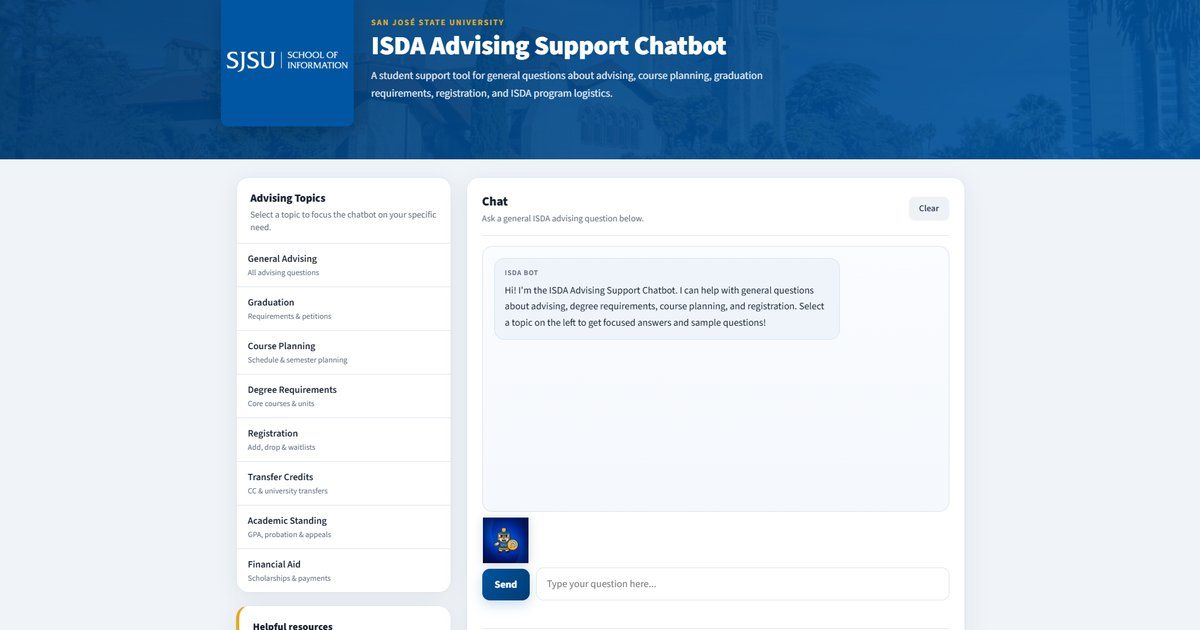
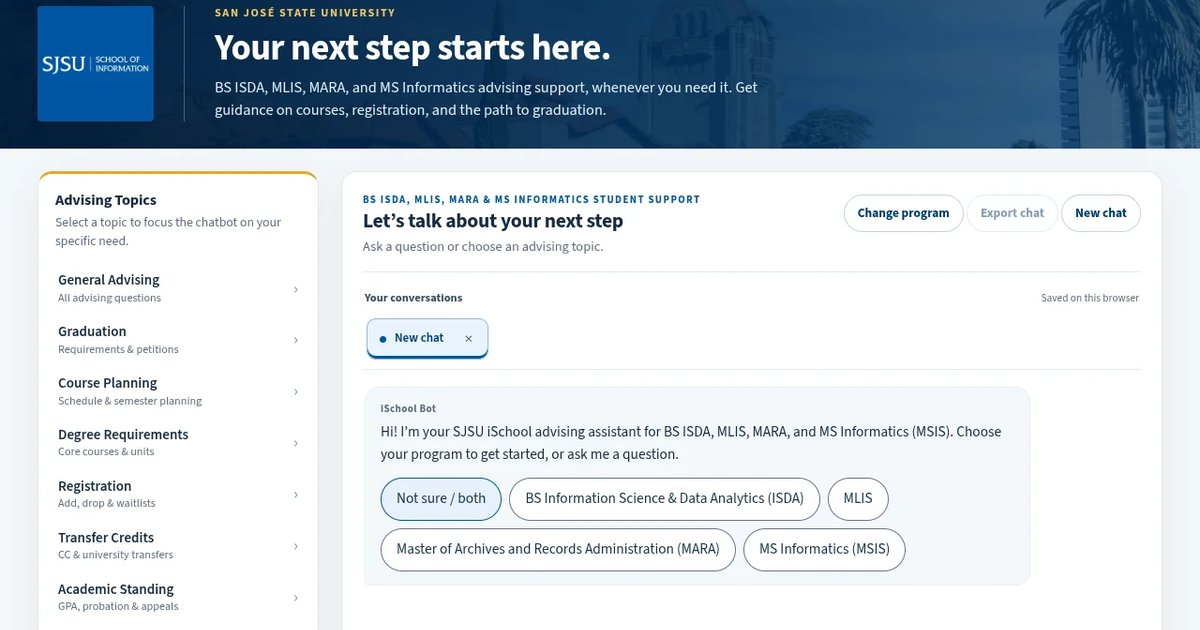
Add real project screenshots and refresh CyVerse page (#13)
* Add project screenshots and refresh CyVerse project page

* Add CyVerse Level 1 and Level 2 SOC gameplay screenshots

* Add CyVerse Level 3 and Level 4 Unity gameplay screenshots

Replace the Level 2 Alert Board with a sharper Unity editor capture, keep the existing Hub cover, and trim weaker Level 1/2 gallery slides so the set stays at 16 images in story order.

diff --git a/src/data/projects.ts b/src/data/projects.ts
@@ -49,9 +49,16 @@ export const projects: Project[] = [
       "The static GitHub Pages preview can preview local GLB files and share links to public HTTPS GLB URLs; persistent uploads require the upload API and object storage."
     ],
     tags: ["AR", "3D", "WebXR"],
-    mediaAlt: "",
-    mediaPath: "",
-    githubUrl: "https://github.com/CrashPr0/spatial-drop"
+    mediaAlt: "Spatial Drop Studio showing the SJSU Spartan Loop 3D model in the live browser preview",
+    mediaPath: "/images/projects/spatial-drop-studio.webp",
+    mediaSlides: [
+      { path: "/images/projects/spatial-drop-studio.webp", alt: "Spatial Drop Studio showing the SJSU Spartan Loop 3D model in the live browser preview" },
+      { path: "/images/projects/spatial-drop-share.webp", alt: "Spatial Drop share panel with generated AR link and scannable QR code" },
+      { path: "/images/projects/spatial-drop-beam.webp", alt: "Spatial Drop QR Beam mode for serverless Fountain QR and Cimbar optical model transfer" }
+    ],
+    githubUrl: "https://github.com/CrashPr0/spatial-drop",
+    siteUrl: "https://crashpr0.github.io/spatial-drop/",
+    siteLabel: "Open Studio preview"
   },
   {
     slug: "echoes-of-expression",
@@ -68,9 +75,17 @@ export const projects: Project[] = [
       "A desktop preview offers mouse-look and WASD navigation without a camera or GPS. Exhibition content and placement settings live in artworks.js."
     ],
     tags: ["AR", "Exhibition", "Location-based"],
-    mediaAlt: "",
-    mediaPath: "",
-    githubUrl: "https://github.com/CrashPr0/EchoesOfExpression"
+    mediaAlt: "Echoes of Expression AR exhibition start screen for SJSU campus, MLK Library, and San José City Hall",
+    mediaPath: "/images/projects/echoes-landing.webp",
+    mediaSlides: [
+      { path: "/images/projects/echoes-landing.webp", alt: "Echoes of Expression AR exhibition start screen for SJSU campus, MLK Library, and San José City Hall" },
+      { path: "/images/projects/echoes-works.webp", alt: "All works exhibition directory showing AR artworks and distances across the walking route" },
+      { path: "/images/projects/echoes-3d-preview.webp", alt: "Commotion, Part 1 3D television sculpture loaded in Echoes of Expression desktop preview mode" },
+      { path: "/images/projects/echoes-statement.webp", alt: "Artwork detail panel showing location metadata and preview for Commotion, Part 1" }
+    ],
+    githubUrl: "https://github.com/CrashPr0/EchoesOfExpression",
+    siteUrl: "https://crashpr0.github.io/EchoesOfExpression/?preview",
+    siteLabel: "Open Desktop Preview"
   },
   {
     slug: "ischool-hologram-workshop",
@@ -87,9 +102,15 @@ export const projects: Project[] = [
       "Canvas handles image and video processing, while CSS 3D transforms simulate the viewer. The display uses the reflection-based Pepper's Ghost effect."
     ],
     tags: ["Hologram", "Workshop", "Image Processing"],
-    mediaAlt: "",
-    mediaPath: "",
-    githubUrl: "https://github.com/CrashPr0/ischool-hologram-workshop"
+    mediaAlt: "Spectre Hologram Workshop prism viewer displaying a four-face SJSU Spartan layout",
+    mediaPath: "/images/projects/hologram-viewer.webp",
+    mediaSlides: [
+      { path: "/images/projects/hologram-viewer.webp", alt: "Spectre Hologram Workshop prism viewer displaying a four-face SJSU Spartan layout" },
+      { path: "/images/projects/hologram-home.webp", alt: "Spectre Hologram Workshop interface showing Pepper's Ghost instructions and upload controls" }
+    ],
+    githubUrl: "https://github.com/CrashPr0/ischool-hologram-workshop",
+    siteUrl: "https://crashpr0.github.io/ischool-hologram-workshop/",
+    siteLabel: "Open Workshop Tool"
   },
   {
     slug: "ischool-advising-chatbot",
@@ -146,10 +167,10 @@ export const projects: Project[] = [
       "Source citations and the ISDA / MLIS selector make it easier to see which program and material an answer covers.",
       "Issue reports give the team a way to review answers, while automatic deletion limits how long those reports are kept."
     ],
-    mediaAlt: "iSchool Advising Support Chatbot interface screenshot",
-    mediaPath: "/images/placeholders/project-ischool-chatbot.png",
+    mediaAlt: "SJSU iSchool Advising Support Chatbot live web interface for BS ISDA, MLIS, MARA, and MS Informatics",
+    mediaPath: "/images/projects/ischool-chatbot-live.webp",
     mediaSlides: [
-      { path: "/images/placeholders/project-ischool-chatbot.png", alt: "iSchool Advising Support Chatbot interface screenshot" },
+      { path: "/images/projects/ischool-chatbot-live.webp", alt: "SJSU iSchool Advising Support Chatbot live web interface for BS ISDA, MLIS, MARA, and MS Informatics" },
       { path: "/images/projects/ischool-chatbot-architecture.png", alt: "Architecture diagram of the iSchool Advising Chatbot" }
     ],
     siteUrl: "https://ischooladvisingchatbot-dx4ynl.azurewebsites.net",
@@ -318,49 +339,62 @@ export const projects: Project[] = [
     slug: "cyverse",
     title: "CyVerse",
     summary:
-      "A browser-based, first-person cybersecurity training game. Walk a virtual security operations floor and practice the work, with no install.",
+      "A browser-based, first-person cybersecurity training game built with Dr. Tonia San Nicolas-Rocca at SJSU. Four playable levels, a 294-question Security+ bank, and an end-of-game certificate.",
     role: "Lead Systems Engineer",
-    tools: ["Unity 2022.3 LTS", "C#", "WebGL"],
-    year: "Beta",
+    tools: ["Unity 2022.3 LTS", "C#", "WebGL", "Unity Test Framework", "GitHub Actions"],
+    year: "2026",
     impact:
-      "Public WebGL beta for identity, defense, and forensics practice in a desktop browser, with captions and a reduce-motion option.",
+      "Public WebGL training game covering Identity & Access, Cyber Defense, Digital Forensics, and Cyber Attack, verified through Play Mode end-flow tests and playtest telemetry export.",
     description: [
-      "CyVerse is a desktop cybersecurity training game you play in the browser. Keyboard and mouse, no VR, and no install. I built the gameplay across every level, plus the walkable hub, the level doors, and the Mission Status board. Those levels cover orientation, identity and access, cyber defense, and digital forensics. Level 1 is the identity and access example: a briefing, badge enrollment, an MFA vault, data triage, an audit hunt, and a certification exam, with glossary entries that unlock once a station is reviewed.",
-      "It was a team project at San José State University, where I led systems engineering and wrote most of the gameplay code. The Security+ Prep Terminal uses practice question sets provided by Dr. San Nicolas-Rocca."
+      "CyVerse is a desktop cybersecurity training simulation built for the CyberVerse Project at San José State University with Dr. Tonia San Nicolas-Rocca. Players use keyboard and mouse in a browser with no install and no VR headset required. As Lead Systems Engineer and primary developer, I built the walkable Hub, Mission Status board, progression system, accessibility controls, automated tests, and the gameplay across Orientation and all four story levels.",
+      "The game opens in the Hub, where players set an operative callsign and move sequentially through Identity & Access (badge enrollment, MFA vault with an in-world authenticator phone, data triage, audit hunt, and exam), Cyber Defense (four-workstation SOC alert queue, evidence locker handoff, and incident response playbook), Digital Forensics (chain-of-custody intake, write-blocked imaging with SHA-256 verification, an interactive Evidence Explorer with optional OCR, hash matching, and AI triage leads, plus a five-question knowledge check), and Cyber Attack (four red-team arcade stations teaching phishing lures, MFA fatigue, privilege escalation, and network attack surfaces).",
+      "Completing a normal run unlocks Hard Mode for that level in the Hub's west wing, removing the objective beacon and adding a 1.5x score multiplier. Dr. San Nicolas-Rocca provided the 294-question CompTIA Security+ study bank organized across five NICE Workforce Framework categories. Finishing all four story levels unlocks a personalized Certificate of Completion that players can save as a PNG from the browser, and Settings includes local CSV or JSON playtest log export and a Start Over reset for study sessions."
     ],
-    tags: ["Cybersecurity", "Unity", "WebGL", "Education", "Accessibility"],
-    mediaAlt: "CyVerse hub with the Mission Status board",
-    mediaPath: "/images/projects/cyverse-hub.jpg",
+    tags: ["Cybersecurity", "Unity", "WebGL", "Education", "Accessibility", "Digital Forensics"],
+    mediaAlt: "CyVerse Hub showing the Mission Status board for all four levels and Orientation",
+    mediaPath: "/images/projects/cyverse-hub.webp",
     mediaSlides: [
-      { path: "/images/projects/cyverse-hub.jpg", alt: "CyVerse hub with the Mission Status board" },
-      { path: "/images/projects/cyverse-level1-portal.jpg", alt: "Level 1 I/AM portal door" },
-      { path: "/images/projects/cyverse-level1-briefing.jpg", alt: "Level 1 security briefing room with the training checklist" },
-      { path: "/images/projects/cyverse-glossary.jpg", alt: "In-game glossary panel" }
+      { path: "/images/projects/cyverse-hub.webp", alt: "CyVerse Hub showing the Mission Status board for all four levels, Orientation, and central beacon" },
+      { path: "/images/projects/cyverse-level1-briefing.webp", alt: "Level 1 Identity and Access briefing room with the six-step training checklist" },
+      { path: "/images/projects/cyverse-level1-audit.webp", alt: "Level 1 Access Audit Log terminal showing account activity entries for anomaly triage" },
+      { path: "/images/projects/cyverse-level2-soc-floor.webp", alt: "Level 2 Cyber Defense SOC operations floor with server racks, Evidence Locker, Forensics Lab door, and IR Playbook" },
+      { path: "/images/projects/cyverse-level2-alert-board.webp", alt: "Level 2 SOC Alert Board listing workstation events across WS-01 through WS-04 for investigation" },
+      { path: "/images/projects/cyverse-level2-custody.webp", alt: "Level 2 Chain of Custody form logging the seized mobile phone handoff from workstation WS-03" },
+      { path: "/images/projects/cyverse-level2-evidence-locker.webp", alt: "Level 2 Pass-Through Evidence Locker between SOC and Digital Forensics with the seized device sealed inside" },
+      { path: "/images/projects/cyverse-level2-ir-playbook.webp", alt: "Level 2 Incident Response Playbook board after placing Preparation on Step 1" },
+      { path: "/images/projects/cyverse-level3-imaging-hash.webp", alt: "Level 3 Digital Forensics imaging station after write-blocked acquisition, with matching hash values ready for analysis" },
+      { path: "/images/projects/cyverse-level3-evidence-explorer.webp", alt: "Level 3 Evidence Explorer three-pane phone triage for Case 1 Spartan Gold, with text messages open to tag as evidence" },
+      { path: "/images/projects/cyverse-level3-knowledge-check.webp", alt: "Level 3 knowledge check question on chain-of-custody item numbers after the phone moves from the SOC to the lab" },
+      { path: "/images/projects/cyverse-level4-spot-the-phish.webp", alt: "Level 4 Spot the Phish arcade station, a social engineering exercise asking whether a job post is a scam or legitimate" },
+      { path: "/images/projects/cyverse-level4-phish-frenzy.webp", alt: "Level 4 Phish Frenzy arcade station on bypassing MFA, with a phishing inbox and the target user's phone" },
+      { path: "/images/projects/cyverse-level4-access-grabber.webp", alt: "Level 4 Access Grabber arcade station on escalating privileges, with a claw machine grabbing over-permissioned access cards" },
+      { path: "/images/projects/cyverse-level4-network-attack.webp", alt: "Level 4 Network Attack station showing The Company Network map of LAN devices, firewall, cloud, and databases" },
+      { path: "/images/projects/cyverse-level4-certificate.webp", alt: "Level 4 Certificate of Completion from CyVerse Security Academy for finishing the training program" }
     ],
     githubUrl: "https://github.com/CrashPr0/Cyverse",
-    siteUrl: "https://crashpr0.github.io/Cyverse/",
-    siteLabel: "Play the beta",
+    siteUrl: "https://crashpr0.github.io/Cyverse/play/",
+    siteLabel: "Play in Browser (WebGL)",
     process: [
       {
-        heading: "Hub and level flow",
-        body: "The hub is the menu you walk around in. Hub doors take their open or locked state from LevelProgress. Orientation and Level 1 start open. A later story level opens when the one before it is complete, and digital forensics also waits until three SOC key items are stored. The Mission Status board refreshes from that same record: operative callsign, clearance out of 4, and each row ready, locked, or in development. A return door inside a level stays shut until that level's manager opens it."
+        heading: "Hub progression, Hard Mode, and session reset",
+        body: "The Hub serves as a walkable menu backed by LevelProgress and HardMode. Orientation and Level 1 start open, and Levels 2 through 4 unlock in sequence, with Cyber Defense handing seized device evidence directly into Digital Forensics. Each page load starts a fresh run while keeping user settings, and Settings -> Start Over resets progress, score, and callsign between playtesters without reloading the tab."
       },
       {
-        heading: "Accessibility in the build",
-        body: "The live page and the Esc menu both cover captions with adjustable text size, Reduce Motion, look sensitivity, field of view, and status shown by shape and label rather than color alone. Volume splits into master, voice, and effects. In a WebGL build, a line without a recorded clip can be read with the browser Web Speech API. Captions stay on, recorded clips take priority, and TTS is skipped in the editor."
+        heading: "Evidence Explorer, knowledge checks, and end-of-game certificate",
+        body: "Level 3 centers on a three-pane Evidence Explorer where players configure case acquisition, run optional keyword, hash-match, OCR, and fallible AI triage passes, pivot across phone artifacts, and tag proof before taking a five-question knowledge check. Level 4 pairs four simulated red-team stations with immediate defensive debriefs, and completing all four levels unlocks CertificateCard with browser PNG download marked as a training keepsake."
       },
       {
-        heading: "Procedural rooms and visual passes",
-        body: "Some levels exist twice: a procedural scene built at play time, and a hand-authored visual pass. SceneCatalog loads the visual pass when that scene is in the build, and falls back to the procedural room if it is missing. Art can live as prefabs under Assets/Resources/Props. If a prefab is absent, the builder uses a primitive, so a missing prop does not break the build."
+        heading: "Accessibility, custom WebGL font, and automated CI",
+        body: "A release audit uncovered missing glyphs in the default WebGL font, so the project ships a bundled Cyverse Sans font alongside adjustable caption sizing, Reduce Motion, Invert Colors, optional Web Speech voiceover, and per-frame look clamping. Pull requests run Unity Play Mode tests (covering end-to-end Level 1 flow, SOC handoff, and playtest CSV/JSON export) before building and deploying WebGL to GitHub Pages."
       }
     ],
     challenges: [
-      "Level 1 finds its stations in the scene, so a procedural room and a hand-built room share one flow: briefing, four tasks, then the exam. Scenes from before that task rework fall back to the older review path, and both paths still have to finish the level.",
-      "The public page and the repo do not number every level the same way, and Level 4 is still in development."
+      "Replacing legacy Level 3 KQL queries with the multi-pass Evidence Explorer and building four playable Level 4 red-team stations while keeping every objective deterministic and verifiable in headless Play Mode tests.",
+      "Making WebGL playtest-ready for shared study browsers: fixing missing Unicode glyphs in builds, preventing pointer-lock camera snaps, and separating consecutive participant runs cleanly with playthrough counters in local CSV/JSON exports."
     ],
     lessons: [
-      "Reduce Motion in this project freezes shader animation, hologram spin, HUD pulses, and screen fades. Captions stay on when speech is skipped. That is the bar I want on a first-person browser game, not a caption file added at the end.",
-      "I keep the hub doors and the Mission Status board on one progress record. Marking a level complete has to open the next door and update clearance together, including the extra keys digital forensics waits on."
+      "Driving the live WebGL build with automated Play Mode tests and headless browser checks catches font, UI-layering, and scene-wiring regressions before playtesters ever sit down.",
+      "Combining hands-on forensic pivoting and simulated attack stations with immediate defensive debriefs and a saveable completion certificate gives students both practice and a clear takeaway."
     ]
   },
   {

diff --git a/src/utils/imageDimensions.ts b/src/utils/imageDimensions.ts
@@ -16,6 +16,10 @@ export const imageDimensions: Record<string, { width: number; height: number }> 
     "width": 1200,
     "height": 630
   },
+  "/images/og/echoes-of-expression.jpg": {
+    "width": 1200,
+    "height": 630
+  },
   "/images/og/immersion-2026-featured-showcase.jpg": {
     "width": 1200,
     "height": 630
@@ -24,7 +28,15 @@ export const imageDimensions: Record<string, { width: number; height: number }> 
     "width": 1200,
     "height": 630
   },
+  "/images/og/ischool-hologram-workshop.jpg": {
+    "width": 1200,
+    "height": 630
+  },
   "/images/og/nsf-sdg-discovery-hall.jpg": {
+    "width": 1200,
+    "height": 630
+  },
+  "/images/og/spatial-drop.jpg": {
     "width": 1200,
     "height": 630
   },
